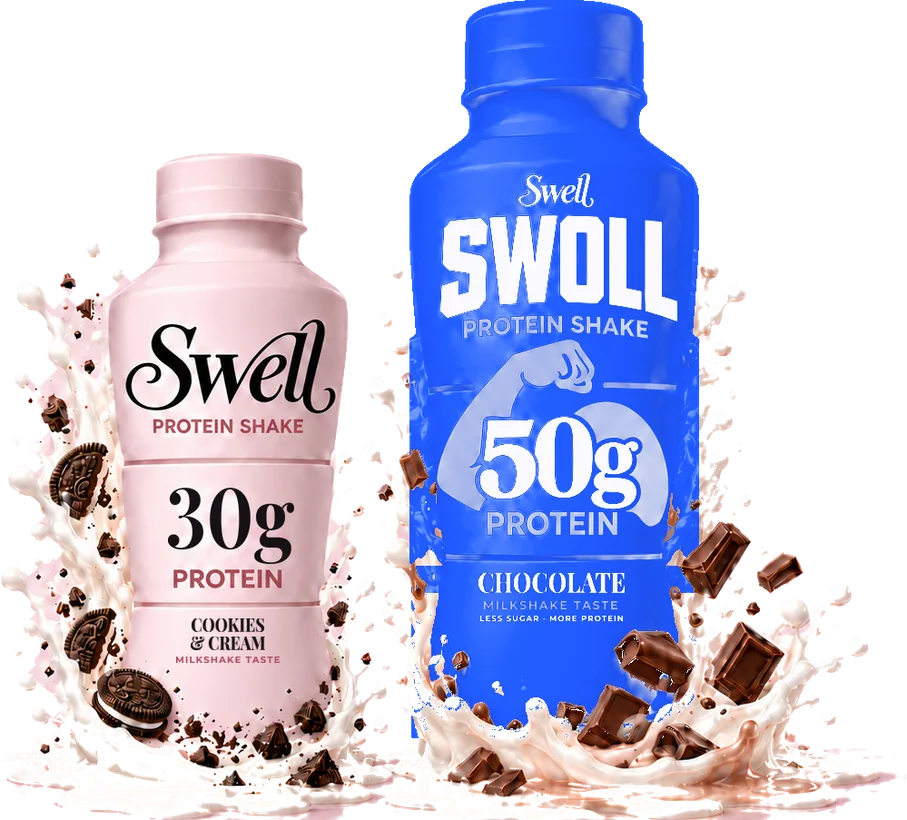
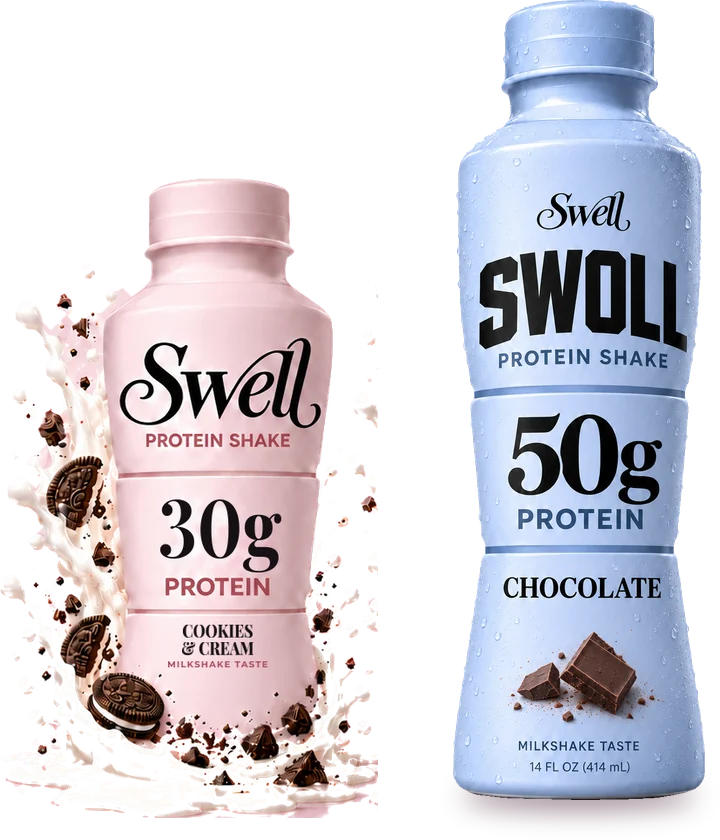
Use the new light-blue Swoll shake and smoothie bottles everywhere
Claude-Session: https://claude.ai/code/session_01AzpPYfJ2iNTin5mbwrihoY

diff --git a/shop.html b/shop.html
@@ -594,7 +594,7 @@ footer.site .legal { margin-top: 30px; padding-top: 20px; border-top: 1px solid 
   </form>
 </div></section>
 <section class="alt-bg" id="sizes"><div class="wrap sizes">
-  <div class="stage"><img class="for-shakes" src="img/size_compare.webp" alt="Swell shake with 30g protein next to the bigger Swoll shake with 50g" width="913" height="820" loading="lazy"><img class="for-smoothies" src="img/size_compare_sm.webp" alt="Swell smoothie with 30g protein next to the bigger Swoll smoothie with 50g" width="913" height="814" loading="lazy"></div>
+  <div class="stage"><img class="for-shakes" src="img/size_compare.webp" alt="Swell shake with 30g protein next to the bigger Swoll shake with 50g" width="720" height="840" loading="lazy"><img class="for-smoothies" src="img/size_compare_sm.webp" alt="Swell smoothie with 30g protein next to the bigger Swoll smoothie with 50g" width="938" height="843" loading="lazy"></div>
   <div><div class="sec-h" style="margin-bottom:20px"><h2>Two bottle sizes</h2><p>Same flavors either way. Choose how much protein you want.</p></div>
     <button type="button" class="opt" data-protein="30" aria-pressed="true"><span class="g">30g</span><span class="t"><b>Swell</b><span>14 fl oz. Before the gym, a snack, or a dessert swap.</span></span><span class="dot"></span></button>
     <button type="button" class="opt" data-protein="50" aria-pressed="false"><span class="g">50g</span><span class="t"><b>Swoll</b><span>After the gym, or when it's replacing a meal.</span></span><span class="dot"></span></button></div>
